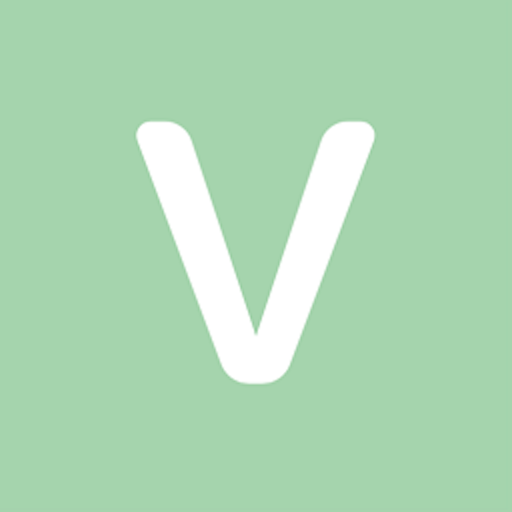
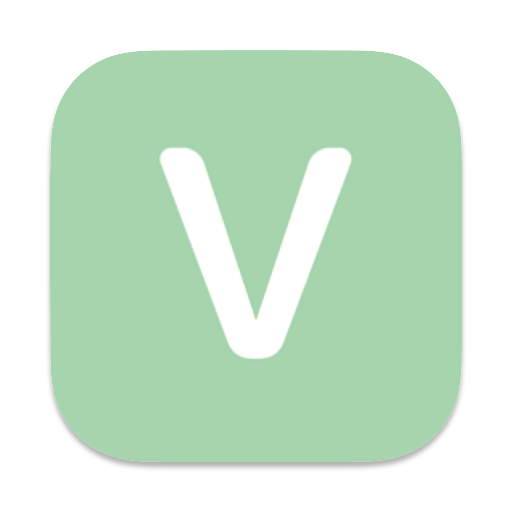
Mac版のアプリアイコンとdmgアイコンを変更

diff --git a/vue.config.js b/vue.config.js
@@ -101,6 +101,9 @@ module.exports = {
             },
           ],
         },
+        dmg: {
+          icon: "public/icon-dmg.png",
+        },
       },
     },
   },
